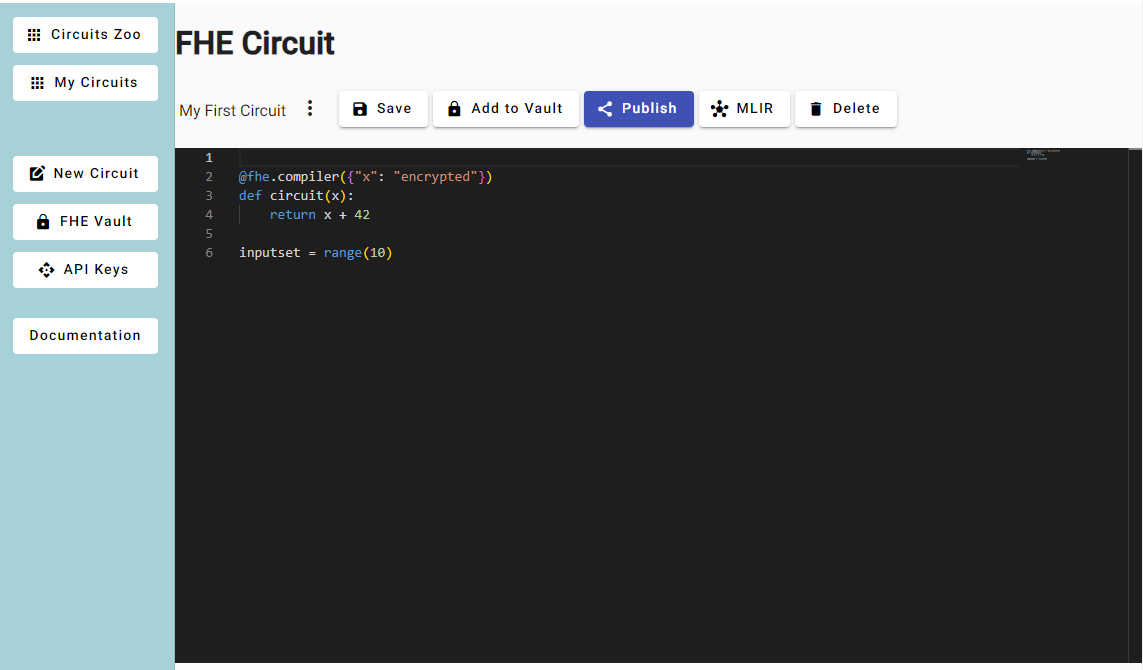
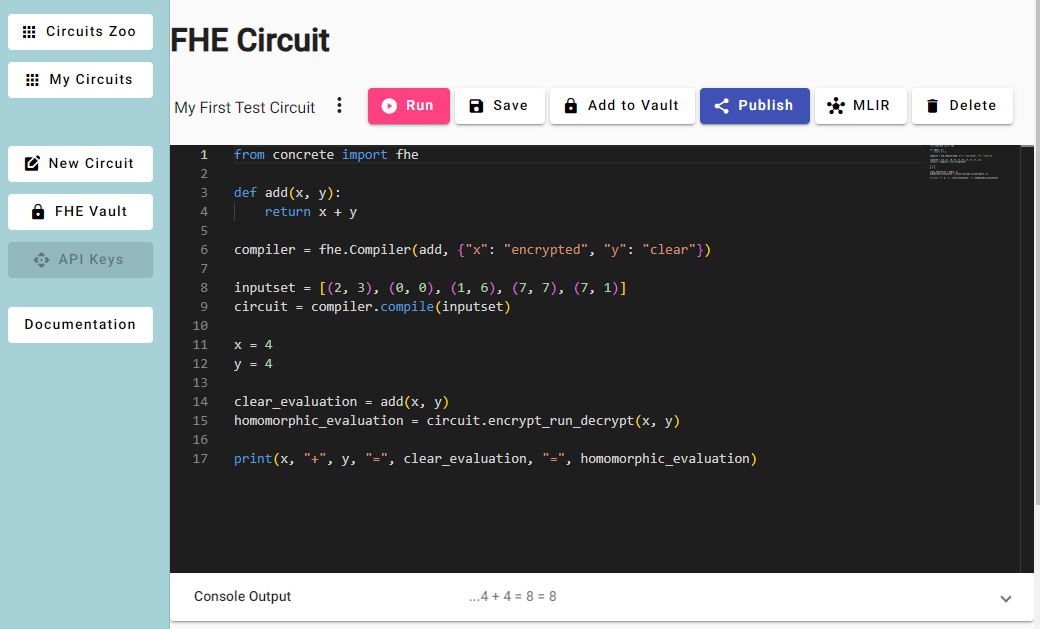
version update to 1.1

diff --git a/how-to-build-fhe-circuits.md b/how-to-build-fhe-circuits.md
@@ -14,15 +14,27 @@ Please note, the `comparison` is implemented also using lookup tables, so it not
 
 # FHE Circuit Source 
 
-Here is an example of basic circuit that adds 42 to an encrypted number:
+Here is an example of basic circuit that adds two numbers:
 ```python
-@fhe.compiler({"x": "encrypted"})
-def circuit(x):
-    return x + 42
+from concrete import fhe
 
-inputset = range(10)
+def add(x, y):
+    return x + y
+
+compiler = fhe.Compiler(add, {"x": "encrypted", "y": "clear"})
+
+inputset = [(2, 3), (0, 0), (1, 6), (7, 7), (7, 1)]
+circuit = compiler.compile(inputset)
+
+x = 4
+y = 4
+
+clear_evaluation = add(x, y)
+homomorphic_evaluation = circuit.encrypt_run_decrypt(x, y)
+
+print(x, "+", y, "=", clear_evaluation, "=", homomorphic_evaluation)
 ```
-The entrypoint should have the name `circuit`. The parameters needs to be annotated with either `encrypted` or `clear`. <br/>
+<br/>
 
 The circuit operates with binary data behind the scenes and it needs to know how many bits of internal variable should be sufficient to evaluate incoming encrypted data. <br>
 For this reason we have to give few examples of input data, e.g. 
